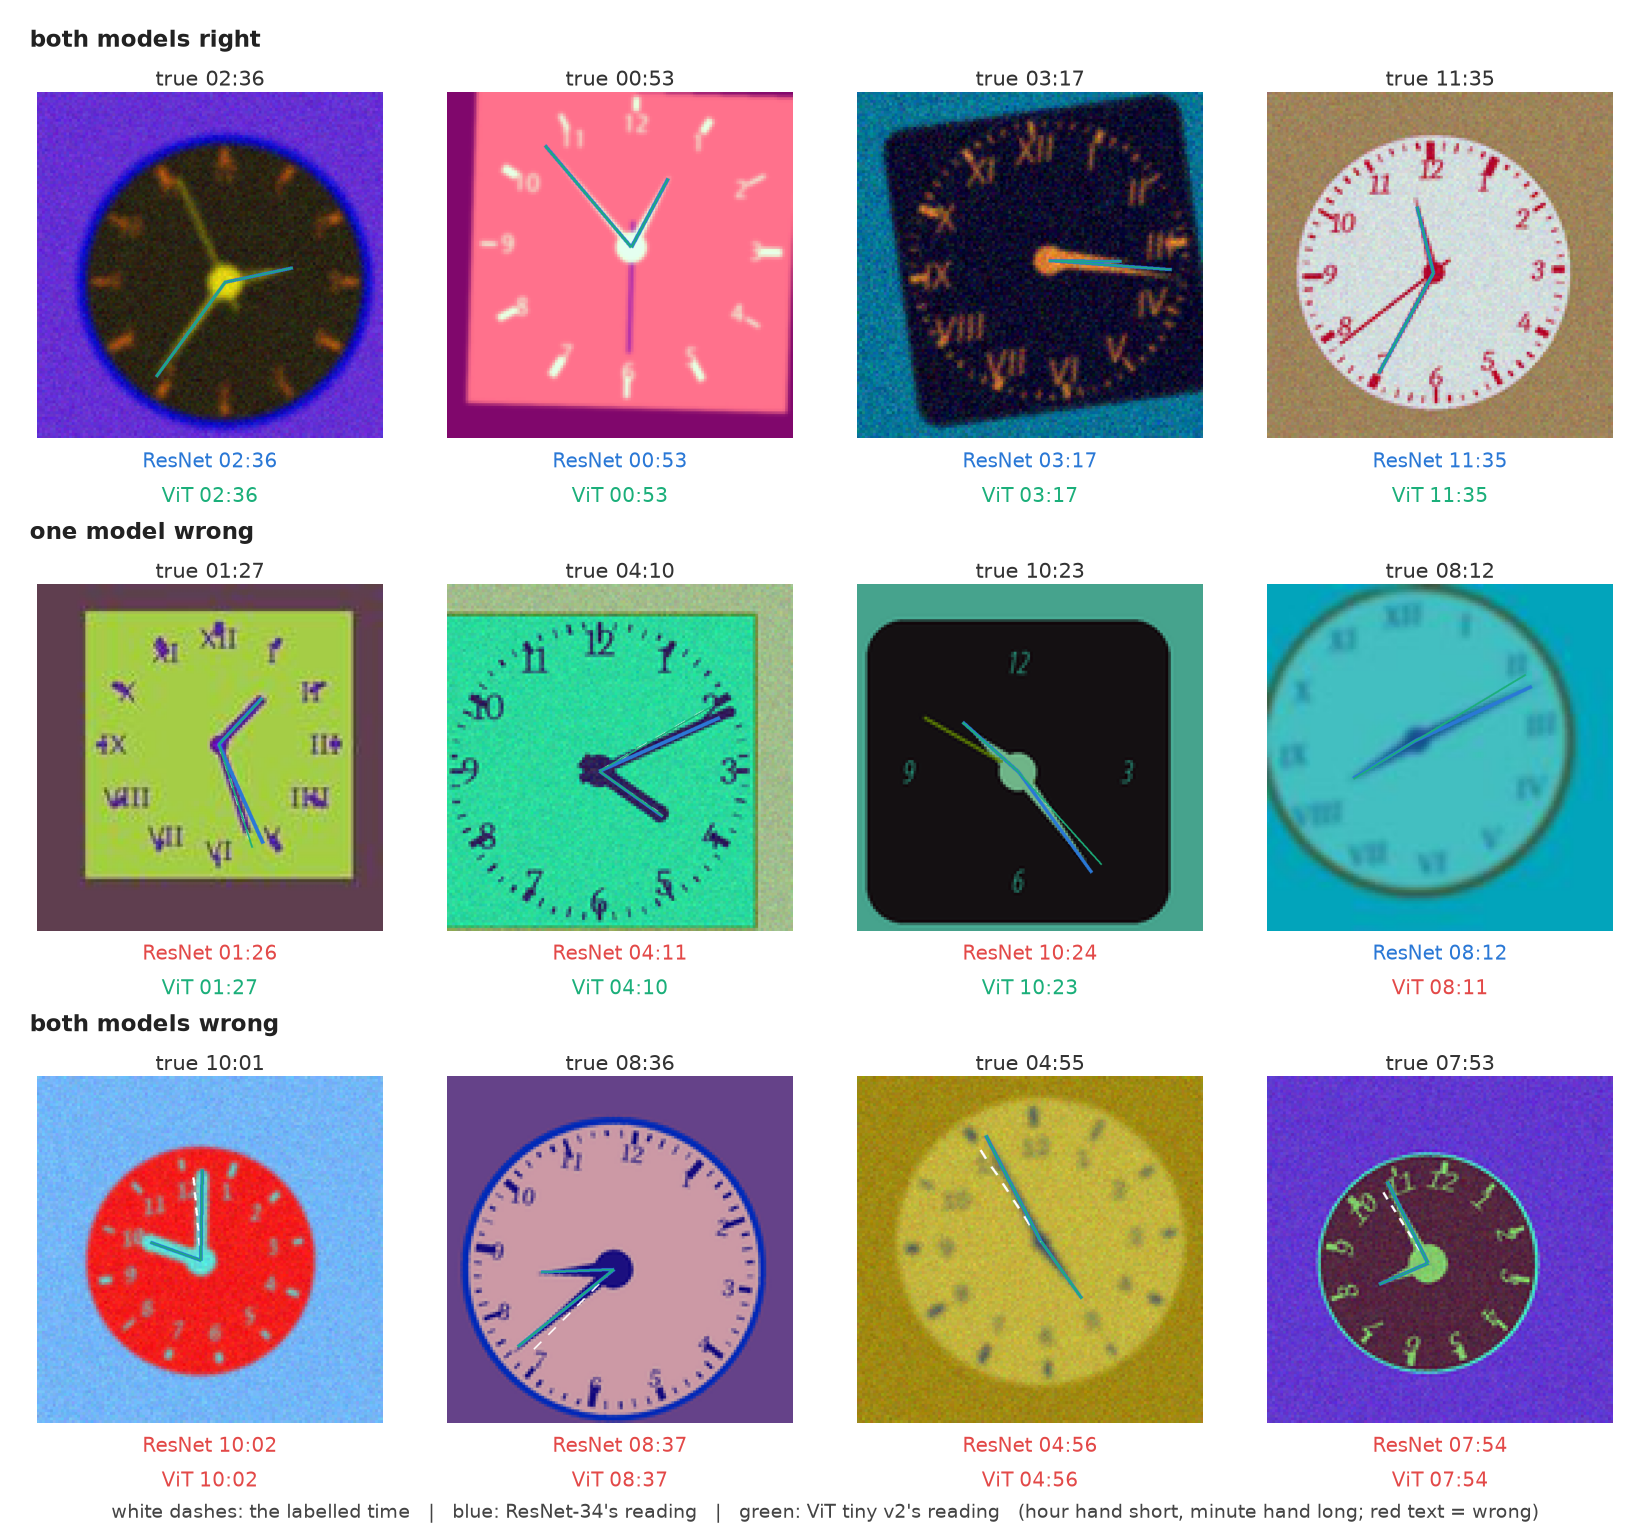
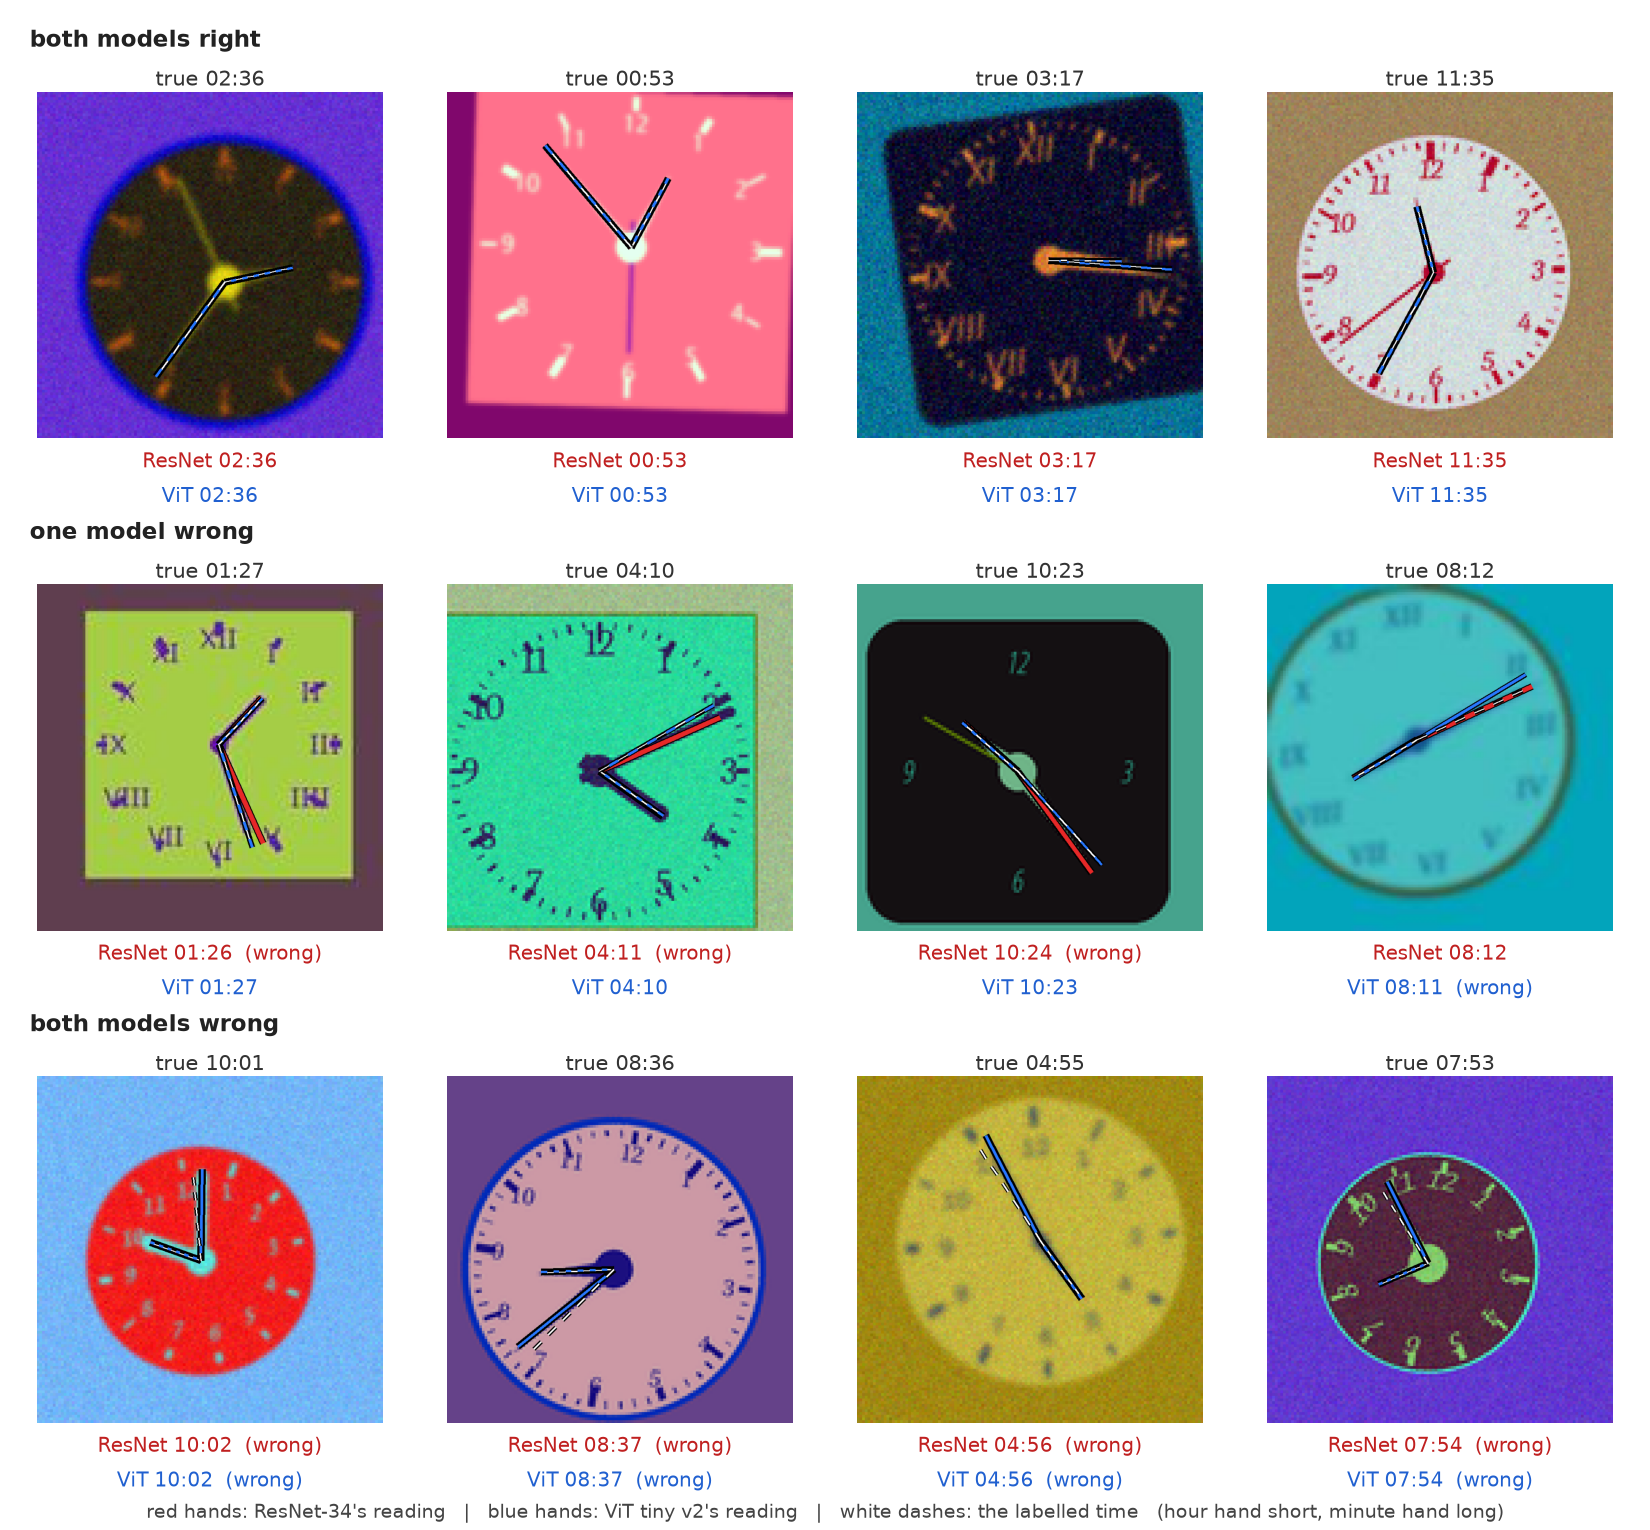
Overlay: red ResNet hands, blue ViT hands, black outlines

diff --git a/_posts/2026-09-15-clocks-part-3-evaluation.md b/_posts/2026-09-15-clocks-part-3-evaluation.md
@@ -56,8 +56,9 @@ at.
 
 The most direct way to see a model read a clock is to draw what it read.
 Below, each model's answer is drawn as a pair of hands over the clock it
-was given: blue for the ResNet, green for the ViT, and the labelled time as
-a thin white dashed pair underneath. Where all three coincide, the model
+was given: red for the ResNet, blue for the ViT, each outlined in black so
+it shows on any background, and the labelled time as a thin white dashed
+pair on top. Where all three coincide, the model
 read the clock. The clocks are from the held-out set, so every typeface
 here is one the models never saw. The geometry for the overlay comes from
 re-rendering each test image from its seed, which reproduces it pixel for
@@ -66,13 +67,13 @@ pixel, and reading the centre and radius the renderer used.
 The images are shown enlarged without smoothing, so the pixels are the
 pixels the models saw.
 
-![Predicted hands from both models drawn over twelve held-out clocks in three rows: both right, one wrong, both wrong](/assets/clocks/overlay_heldout.png){: .no-invert}
+![Predicted hands from both models, ResNet in red and ViT in blue, drawn over twelve held-out clocks in three rows: both right, one wrong, both wrong](/assets/clocks/overlay_heldout.png){: .no-invert}
 
 In the top row the three sets of hands are on top of each other. In the
 middle row one model is a minute off and the other isn't, and the two
 readings differ by a few degrees at the tip. In the bottom row both models
-agree with each other and disagree with the label, and their minute hands
-sit just clockwise of the white dashes, one minute's worth. That is the
+agree with each other and disagree with the label, and the red and blue
+minute hands sit just clockwise of the white dashes, one minute's worth. That is the
 whole story of this post, and the rest of it is measuring that picture.
 
 Another way to look at the same thing: take what each model answered and
